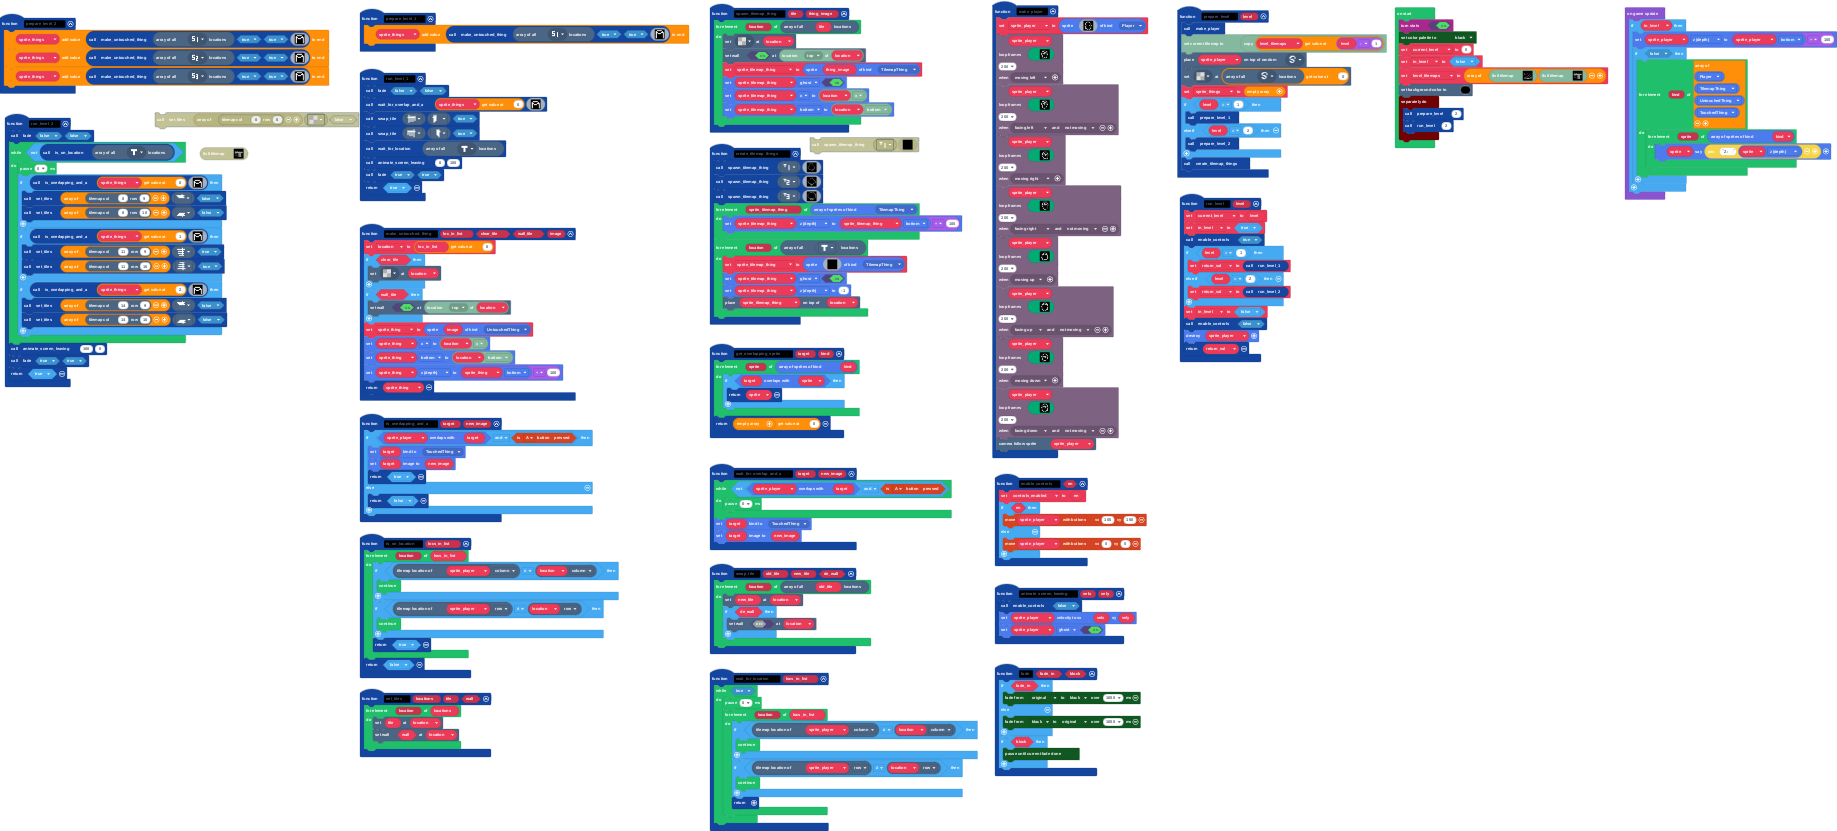
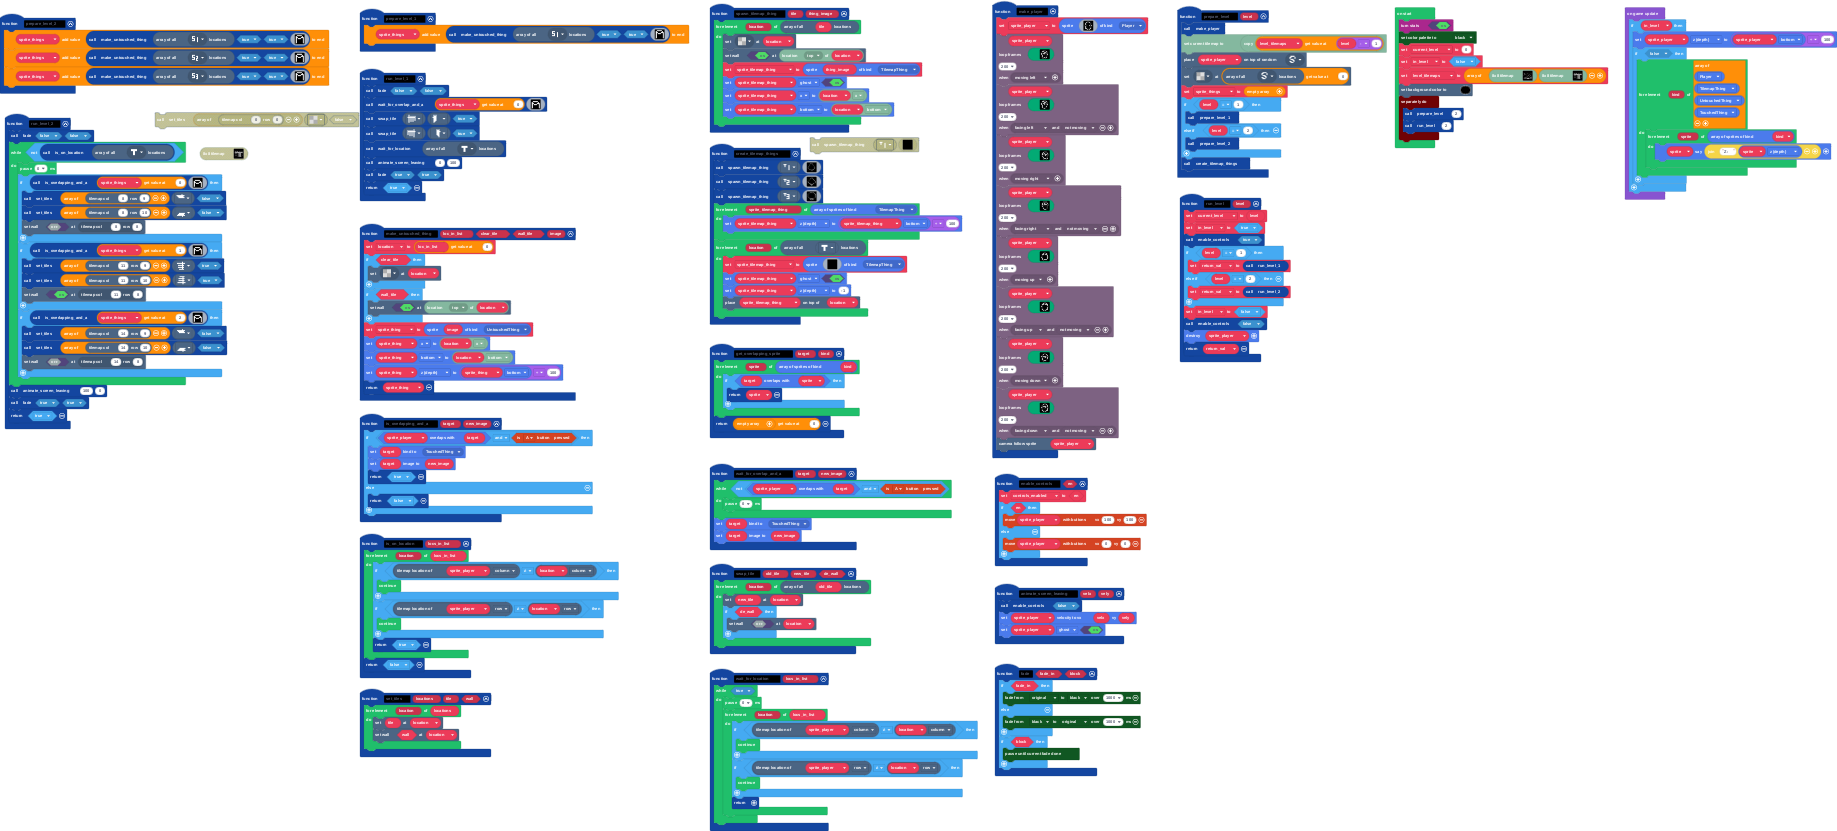
Add and remove walls from top of side fences

Changed region(s): [[0.0, 0.2407, 0.1241, 0.5415]]

diff --git a/main.ts b/main.ts
@@ -185,14 +185,17 @@ function run_level_2 () {
         if (is_overlapping_and_a(sprite_things[0], assets.image`stump_1_pressed`)) {
             set_tiles([tiles.getTileLocation(8, 9)], assets.tile`left_left_fence_gate_open`, false)
             set_tiles([tiles.getTileLocation(8, 10)], assets.tile`right_left_fence_gate_open`, false)
+            tiles.setWallAt(tiles.getTileLocation(8, 8), false)
         }
         if (is_overlapping_and_a(sprite_things[1], assets.image`stump_1_pressed`)) {
             set_tiles([tiles.getTileLocation(11, 9)], assets.tile`left_left_fence_gate_closed`, true)
             set_tiles([tiles.getTileLocation(11, 10)], assets.tile`right_left_fence_gate_closed`, true)
+            tiles.setWallAt(tiles.getTileLocation(11, 8), true)
         }
         if (is_overlapping_and_a(sprite_things[2], assets.image`stump_1_pressed`)) {
             set_tiles([tiles.getTileLocation(14, 9)], assets.tile`left_left_fence_gate_open`, false)
             set_tiles([tiles.getTileLocation(14, 10)], assets.tile`right_left_fence_gate_open`, false)
+            tiles.setWallAt(tiles.getTileLocation(14, 8), false)
         }
     }
     animate_screen_leaving(100, 0)

diff --git a/tilemap.g.ts b/tilemap.g.ts
@@ -181,7 +181,7 @@ namespace myTiles {
 . . . . . . . . 2 . . 2 . . 2 . . . . . 
 . . . . . . . . 2 . . 2 . . 2 . . . . . 
 . . . . . . . . 2 . . 2 . . 2 . . . . . 
-. . . . . . . . 2 . . 2 . . 2 . . . . . 
+. . . . . . . . 2 . . . . . 2 . . . . . 
 . . . . . . . . 2 . . . . . 2 . . . . . 
 . . . . . . . . 2 . . . . . 2 . . . . . 
 . . . . . . . . 2 . . 2 . . 2 . . . . . 
